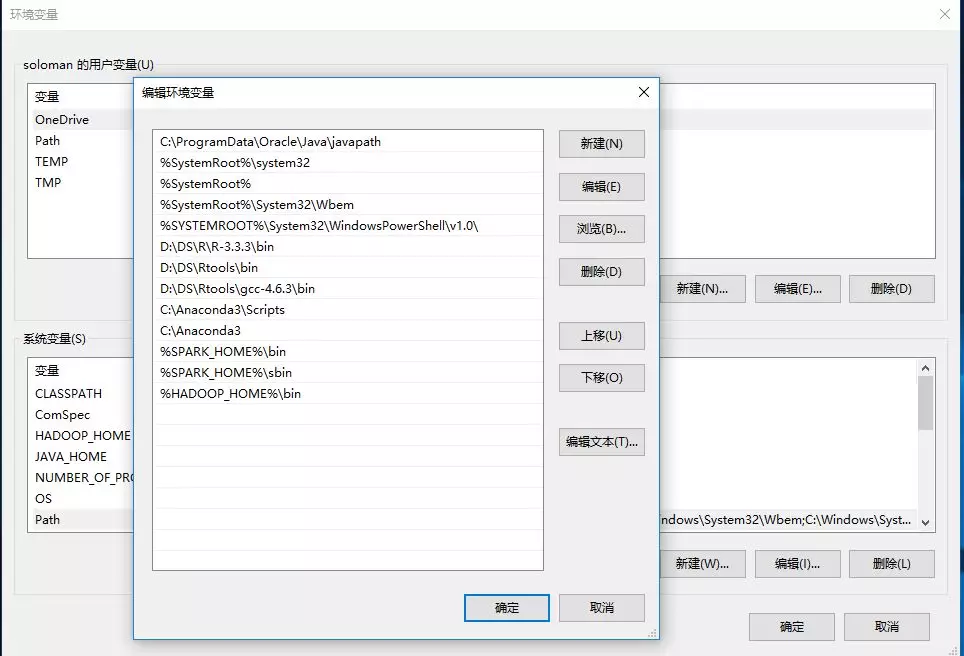
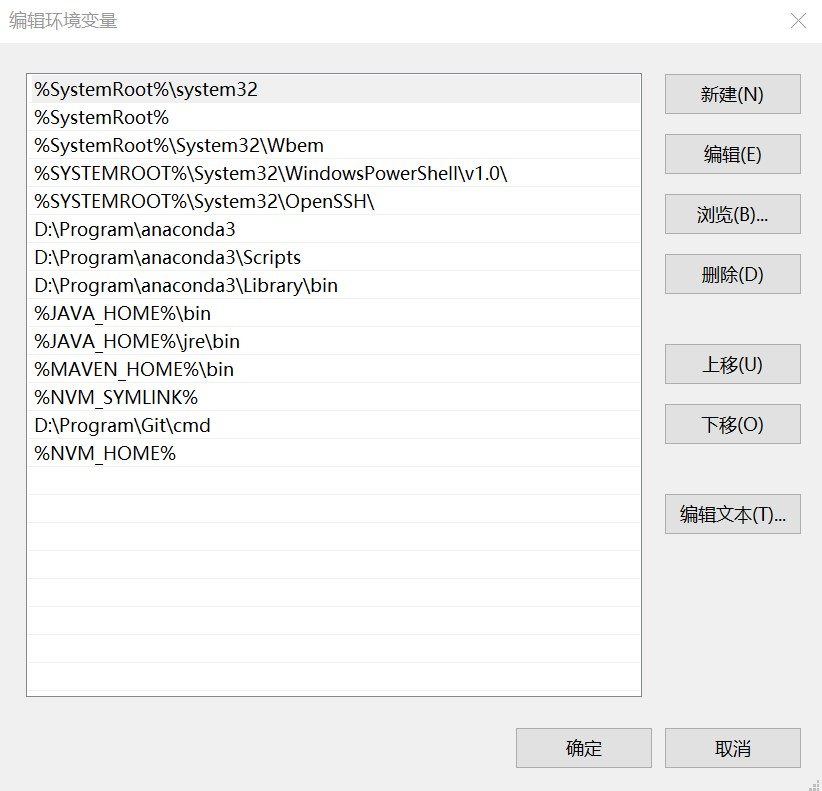
what

diff --git a/notes/python.md b/notes/python.md
@@ -8,7 +8,7 @@
     - 根据安装向导逐步进行，注意安装路径中的文件夹名称不要存在空格
 
 2. 环境变量
-	配置系统变量PATH，添加…\Anaconda3\Scripts及…\Anaconda3（根据安装路径确定）
+	配置系统变量PATH，添加`D:\Program\anaconda3;D:\Program\anaconda3\Scripts;D:\Program\anaconda3\Library\bin;`（根据安装路径确定）
 	![图片](assets/path.jpg)
 	
 	【注意】此图PATH变量中也显示了后续安装过程中添加的信息
